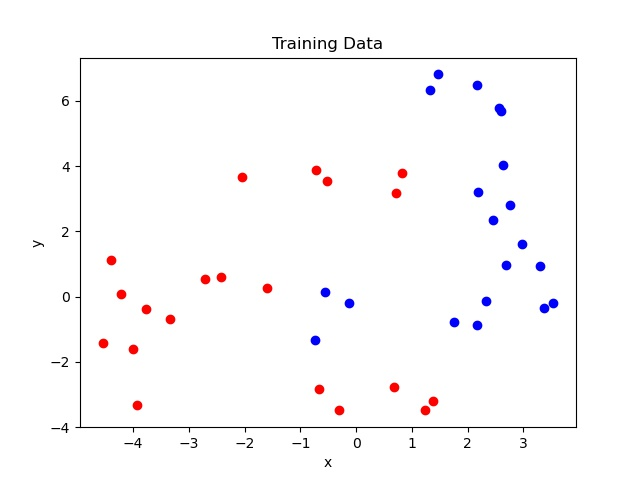
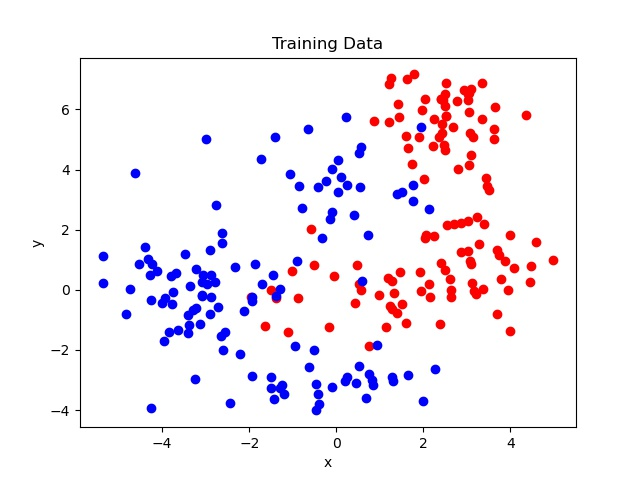
data_io.py format to 0,1 and 1,0 for output forward_propagation.py added loss function hw3.py tried ANN, seems to not converge or improve

diff --git a/test_mcgough.py b/test_mcgough.py
@@ -1,100 +1,63 @@
 #McGugh example code
-# import numpy as np
-# from numpy import random
-#
-#
-# def test():
-#     # N is batch size ; M different patterns ;
-#     # D_in is input dimension ; H is hidden dimension ; D_out is output dimension .
-#
-#     M = 8
-#
-#     N, D_in , H, D_out = 100 , 32*M, 128 , M
-#
-#     x = 0.05* np.random.randn(N, D_in)
-#     y = np.zeros((N, D_out))
-#
-#     foo = 0
-#
-#     for i in range(N):
-#         k = i % M
-#         y[i, k] = 1.0
-#     for j in range(D_in):
-#         if random.rand() > 0.98:
-#             x[i, j] = random.rand()
-#             foo += 1
-#         if j > 32 * k and j < 32 * k + 24:
-#             x[i, j] = 1
-#
-#     xx = x.T
-#     yy = y.T
-#
-#     # Randomly initialize weights
-#     w1 = np.random.randn(H, D_in)
-#     w2 = np.random.randn(D_out ,H)
-#
-#     k = 0
-#     loss = N*D_out
-#     learning_rate = 1e-5
-#
-#     while (loss > 0.01):
-#         # Forward pass : compute predicted y
-#         z1 = np.dot(w1, xx)
-#         a1 = np.maximum(z1, 0)
-#         z2 = np.dot(w2, a1)
-#         a2 = z2 # no final activation function
-#         # Compute and print loss
-#         loss = (np.square(a2 - yy).sum())/N
-#         if k %100 == 0:
-#             print(k, loss)
-#         # Backprop to compute gradients of w1 and w2 with respect to loss
-#         err = 2.0 * (a2 - yy)
-#         grad_z2 = err  # no final activation function
-#         grad_a1 = np.dot(w2.T, grad_z2)
-#         grad_z1 = grad_a1.copy()
-#         grad_z1[z1 < 0] = 0
-#         grad_w2 = np.dot(grad_z2, a1.T)
-#         grad_w1 = np.dot(grad_z1, xx.T)
-#         # Update weights
-#         w1 -= learning_rate * grad_w1
-#         w2 -= learning_rate * grad_w2
-#         k += 1
-#
-# test()
-
-
-#Example of how to use neuron_layer and forward_propagation
 import numpy as np
-import neuron_layer as n
-import forward_propagation as f
-def main():
-    #make a ANN by making array of NeuronLayer objects
-    ann = np.array([])
-    for l in range(3):
-        tmp = n.NeuronLayer(3, 3)
-        ann = np.append(ann, tmp)
-    values = np.array([1, 2, 3])
-    ann[0].input_value = values
-    #checking the updating/overwiting of values when needed
-    for t in range(2):
-        #put in a 2 dim input input_values
-        print("test", t)
-        end = f.forward_network(ann)
-        for l in range(3):
-            print("layer ", l)
-            print("input")
-            print(ann[l].input_value)
-            print("w")
-            print(ann[l].w)
-            print("z")
-            print(ann[l].z)
-            print("a")
-            print(ann[l].a)
-
-        print("end, ", end)
-        values = np.array([2, 4, 6])
-        ann[0].input_value = values
+from numpy import random
 
 
-if __name__ == '__main__':
-    main()
+def test():
+    # N is batch size ; M different patterns ;
+    # D_in is input dimension ; H is hidden dimension ; D_out is output dimension .
+
+    M = 8
+
+    N, D_in , H, D_out = 100 , 32*M, 128 , M
+
+    x = 0.05* np.random.randn(N, D_in)
+    y = np.zeros((N, D_out))
+
+    foo = 0
+
+    for i in range(N):
+        k = i % M
+        y[i, k] = 1.0
+    for j in range(D_in):
+        if random.rand() > 0.98:
+            x[i, j] = random.rand()
+            foo += 1
+        if j > 32 * k and j < 32 * k + 24:
+            x[i, j] = 1
+
+    xx = x.T
+    yy = y.T
+
+    # Randomly initialize weights
+    w1 = np.random.randn(H, D_in)
+    w2 = np.random.randn(D_out ,H)
+
+    k = 0
+    loss = N*D_out
+    learning_rate = 1e-5
+
+    while (loss > 0.01):
+        # Forward pass : compute predicted y
+        z1 = np.dot(w1, xx)
+        a1 = np.maximum(z1, 0)
+        z2 = np.dot(w2, a1)
+        a2 = z2 # no final activation function
+        # Compute and print loss
+        loss = (np.square(a2 - yy).sum())/N
+        if k %100 == 0:
+            print(k, loss)
+        # Backprop to compute gradients of w1 and w2 with respect to loss
+        err = 2.0 * (a2 - yy)
+        grad_z2 = err  # no final activation function
+        grad_a1 = np.dot(w2.T, grad_z2)
+        grad_z1 = grad_a1.copy()
+        grad_z1[z1 < 0] = 0
+        grad_w2 = np.dot(grad_z2, a1.T)
+        grad_w1 = np.dot(grad_z1, xx.T)
+        # Update weights
+        w1 -= learning_rate * grad_w1
+        w2 -= learning_rate * grad_w2
+        k += 1
+
+test()

diff --git a/forward_propagation.py b/forward_propagation.py
@@ -8,7 +8,7 @@ import numpy as np
 import activation_functions as a
 
 
-def forward_network(neuron_layer_array, first=True):
+def forward_network(neuron_layer_array, know, first=True):
     """
     This function accepts an numpy array of instances of the neuron layer class.
     Along with the number of layers that the ANN supposed to have.
@@ -16,10 +16,12 @@ def forward_network(neuron_layer_array, first=True):
 
     Args:
         neuron_layer_array: numpy array of neuron layer instances.
+        know(numpy array): that has the know outcome
 
     Returns:
-         neuron_layer_array[layer-1].a: is the last output layer of the ANN"""
-    layer = int(neuron_layer_array.size)
+         Returns the square root of prediction minus know value"""
+    layer = neuron_layer_array.shape[0]
+    know_t = know.T
     for l in range(0, layer):
         if first is True:
             input_value_t = neuron_layer_array[l].input_value.T
@@ -27,7 +29,8 @@ def forward_network(neuron_layer_array, first=True):
             neuron_layer_array[l].a = a.relu(neuron_layer_array[l].z)
             first = False
         else:
-            neuron_layer_array[l].z = np.dot(neuron_layer_array[l].w, neuron_layer_array[l-1].a)
+            neuron_layer_array[l].input_value = neuron_layer_array[l-1].a
+            neuron_layer_array[l].z = np.dot(neuron_layer_array[l].w, neuron_layer_array[l].input_value)
             neuron_layer_array[l].a = a.relu(neuron_layer_array[l].z)
-    return neuron_layer_array[layer-1].a
+    return np.square(know_t - neuron_layer_array[layer-1].a)
 

diff --git a/hw3.py b/hw3.py
@@ -3,13 +3,50 @@
 - Author: Jason A. F. Mitchell and Eric Tulowetzke
 - Summary: This is the main module for homework 3 problem 1.
 """
-
+import numpy as np
 import data_io as io
 import graph_wrapper as gw
+import  neuron_layer as nl
+import forward_propagation as fp
+import backward_propagation as bp
 
 
 def main():
     io.graphTrainingData()
+
+    ##Three layer ANN
+    ann = np.array([])
+    for l in range(3):
+        tmp = nl.NeuronLayer(2, 2)
+        ann = np.append(ann, tmp)
+
+    ##Separate the values into inputs(values) and known outcome values
+    data_array = io.getTrainingData()
+    len = int(data_array.shape[0])
+    tmp = []
+    values = []
+    know = []
+    for i in range(len):
+        tmp = data_array[i][0:2]
+        values.append(tmp)
+        tmp = data_array[i][2:4]
+        know.append(tmp)
+    del tmp
+    values = np.array(values)
+    know = np.array(know)
+
+
+    ##Feed in each input value into both forward propagation and back propagation
+    loss = 1
+    loss_arr = np.array([])
+    for i in range(len):
+        ann[0].input_value = values[i]
+        loss_arr = np.append(loss_arr, fp.forward_network(ann, know[i])) #Collect the square difference of each pair
+        bp.backprop(ann, know[i], values[i])
+
+    loss = loss_arr.sum()/len #Finish calculating mean squared error
+    print(loss)
+    del loss_arr
 
 
 if __name__ == "__main__":

diff --git a/data_io.py b/data_io.py
@@ -30,6 +30,7 @@ def getData(fileName=DATA_FILE):
     Returns:
         ndarray: 2d array of the file's contents
     """
+    CATEGORY = 2
     dataArray = []
     with open(fileName) as f:
         for line in f.read().split("\n"):
@@ -37,6 +38,10 @@ def getData(fileName=DATA_FILE):
             if line != '':
                 for item in line.split(","):
                     temp.append(float(item.strip()))
+                if temp[CATEGORY] == 1.0:
+                    temp[2:3] = [0, 1]
+                else:
+                    temp[2:3] = [1, 0]
                 dataArray.append(temp)
     return np.array(dataArray)
 
